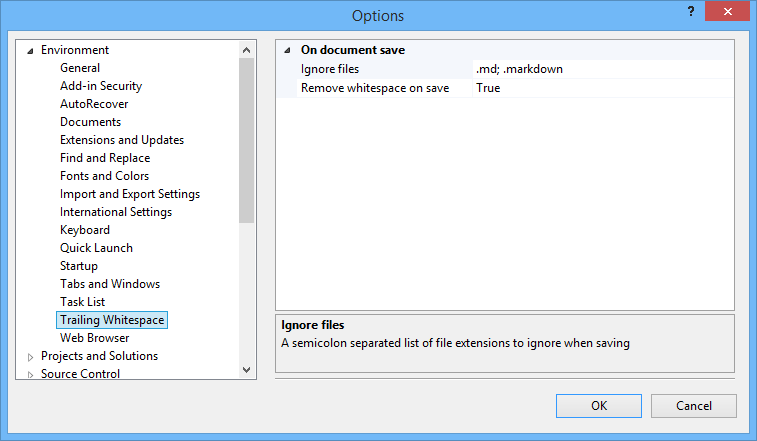
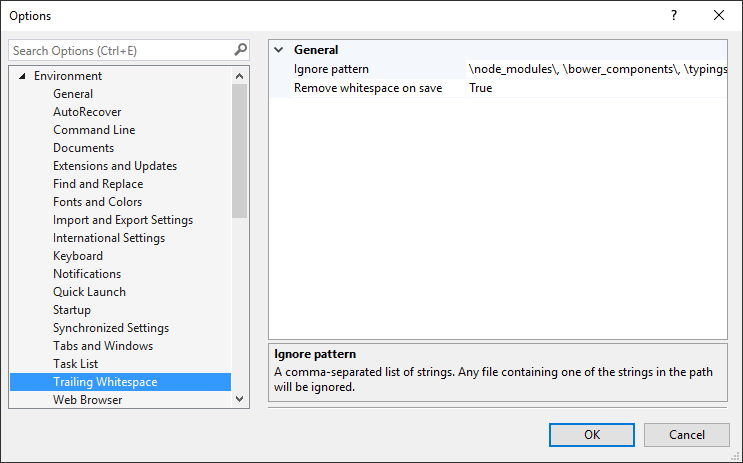
Disable for generated files. Fixed #23

Changed region(s): [[0.0, 0.0, 1.0, 1.0]]

diff --git a/src/Helpers/FileHelpers.cs b/src/Helpers/FileHelpers.cs
@@ -1,0 +1,64 @@
+using System;
+using System.IO;
+using System.Linq;
+using Microsoft.VisualStudio.Shell.Interop;
+using Microsoft.VisualStudio.Text;
+using Microsoft.VisualStudio.TextManager.Interop;
+
+namespace TrailingWhitespace
+{
+    static class FileHelpers
+    {
+        public static bool IsFileSupported(ITextBuffer buffer)
+        {
+            string fileName = buffer.GetFilePath();
+
+            // Check if filename is absolute because when debugging, script files are sometimes dynamically created.
+            if (string.IsNullOrWhiteSpace(fileName) || !Path.IsPathRooted(fileName))
+                return false;
+
+            string extension = Path.GetExtension(fileName);
+
+            var patterns = VSPackage.Options.GetIgnorePatterns();
+
+            if (patterns.Any(p => fileName.IndexOf(p, StringComparison.OrdinalIgnoreCase) > -1))
+                return false;
+
+            // Ignore files containing the string: <auto-generated>
+            string content = buffer.CurrentSnapshot.GetText();
+            if (content.IndexOf("<auto-generated>", StringComparison.OrdinalIgnoreCase) > -1)
+                return false;
+
+            return true;
+        }
+
+        public static string GetFilePath(this ITextBuffer buffer)
+        {
+            IVsTextBuffer bufferAdapter;
+            if (!buffer.Properties.TryGetProperty(typeof(IVsTextBuffer), out bufferAdapter))
+                return null;
+
+            if (bufferAdapter == null)
+                return null;
+
+            var persistFileFormat = bufferAdapter as IPersistFileFormat;
+
+            if (persistFileFormat == null)
+                return null;
+
+            string ppzsFilename = null;
+            uint iii;
+
+            try
+            {
+                persistFileFormat.GetCurFile(out ppzsFilename, out iii);
+                return ppzsFilename;
+            }
+            catch (Exception ex)
+            {
+                Telemetry.TrackException(ex);
+                return null;
+            }
+        }
+    }
+}

diff --git a/src/Classifier/ClassifierProvider.cs b/src/Classifier/ClassifierProvider.cs
@@ -1,10 +1,7 @@
-using System;
-using System.ComponentModel.Composition;
-using Microsoft.VisualStudio.Shell.Interop;
+using System.ComponentModel.Composition;
 using Microsoft.VisualStudio.Text;
 using Microsoft.VisualStudio.Text.Classification;
 using Microsoft.VisualStudio.Text.Editor;
-using Microsoft.VisualStudio.TextManager.Interop;
 using Microsoft.VisualStudio.Utilities;
 
 namespace TrailingWhitespace
@@ -19,44 +16,12 @@ namespace TrailingWhitespace
 
         public IClassifier GetClassifier(ITextBuffer textBuffer)
         {
-            string fileName = GetFileName(textBuffer);
-
-            // Check for file name so the classifier won't show up in tool windows etc.
-            if (!string.IsNullOrWhiteSpace(fileName))
+            if (FileHelpers.IsFileSupported(textBuffer))
             {
                 return textBuffer.Properties.GetOrCreateSingletonProperty(() => new TrailingClassifier(registryService, textBuffer));
             }
 
             return null;
-        }
-
-        public static string GetFileName(ITextBuffer buffer)
-        {
-            IVsTextBuffer bufferAdapter;
-            if (!buffer.Properties.TryGetProperty(typeof(IVsTextBuffer), out bufferAdapter))
-                return null;
-
-            if (bufferAdapter == null)
-                return null;
-
-            var persistFileFormat = bufferAdapter as IPersistFileFormat;
-
-            if (persistFileFormat == null)
-                return null;
-
-            string ppzsFilename = null;
-            uint iii;
-
-            try
-            {
-                persistFileFormat.GetCurFile(out ppzsFilename, out iii);
-                return ppzsFilename;
-            }
-            catch (Exception ex)
-            {
-                Telemetry.TrackException(ex);
-                return null;
-            }
         }
     }
 }

diff --git a/src/Commands/RemoveWhitespaceOnSave.cs b/src/Commands/RemoveWhitespaceOnSave.cs
@@ -1,12 +1,11 @@
-using EnvDTE80;
+using System;
+using System.Linq;
+using EnvDTE80;
 using Microsoft.VisualStudio;
 using Microsoft.VisualStudio.OLE.Interop;
 using Microsoft.VisualStudio.Text;
 using Microsoft.VisualStudio.Text.Editor;
 using Microsoft.VisualStudio.TextManager.Interop;
-using System;
-using System.IO;
-using System.Linq;
 
 namespace TrailingWhitespace
 {
@@ -31,10 +30,10 @@ namespace TrailingWhitespace
         {
             if (pguidCmdGroup == _cmdGgroup && _cmdId.Contains(nCmdID))
             {
-                if (!IsEnabled())
-                    return _nextCommandTarget.Exec(ref pguidCmdGroup, nCmdID, nCmdexecopt, pvaIn, pvaOut);
+                ITextBuffer buffer = _view?.TextBuffer;
 
-                ITextBuffer buffer = _view.TextBuffer;
+                if (buffer == null || !IsEnabled(buffer))
+                    return _nextCommandTarget.Exec(ref pguidCmdGroup, nCmdID, nCmdexecopt, pvaIn, pvaOut);
 
                 if (buffer != null && buffer.CheckEditAccess())
                 {
@@ -45,15 +44,12 @@ namespace TrailingWhitespace
             return _nextCommandTarget.Exec(ref pguidCmdGroup, nCmdID, nCmdexecopt, pvaIn, pvaOut);
         }
 
-        private bool IsEnabled()
+        private bool IsEnabled(ITextBuffer buffer)
         {
             if (!VSPackage.Options.RemoveWhitespaceOnSave)
                 return false;
 
-            string[] extensions = VSPackage.Options.IgnoreFileExtensions.Split(new[] { ';' }, StringSplitOptions.RemoveEmptyEntries);
-            string fileExtension = Path.GetExtension(_document.FilePath);
-
-            return !extensions.Any(ext => ext.Equals(fileExtension, StringComparison.OrdinalIgnoreCase));
+            return FileHelpers.IsFileSupported(buffer);
         }
 
         private void RemoveTrailingWhitespace(ITextBuffer buffer)

diff --git a/src/Options.cs b/src/Options.cs
@@ -1,5 +1,7 @@
 using Microsoft.VisualStudio.Shell;
 using System.ComponentModel;
+using System.Collections.Generic;
+using System;
 
 namespace TrailingWhitespace
 {
@@ -8,19 +10,29 @@ namespace TrailingWhitespace
         public Options()
         {
             RemoveWhitespaceOnSave = true;
-            IgnoreFileExtensions = ".md; .markdown";
+            IgnorePatterns = @"\node_modules\, \bower_components\, \typings\, \lib\, .min., .md, .markdown";
         }
 
-        [Category("On document save")]
+        [Category("General")]
         [DisplayName("Remove whitespace on save")]
         [Description("Every time a code file is saved, any whitespace is removed first")]
         [DefaultValue(true)]
         public bool RemoveWhitespaceOnSave { get; set; }
 
-        [Category("On document save")]
-        [DisplayName("Ignore files")]
-        [Description("A semicolon separated list of file extensions to ignore when saving")]
-        [DefaultValue(".md; .markdown")]
-        public string IgnoreFileExtensions { get; set; }
+        [Category("General")]
+        [DisplayName("Ignore pattern")]
+        [Description("A comma-separated list of strings. Any file containing one of the strings in the path will be ignored.")]
+        [DefaultValue(@"\node_modules\, \bower_components\, \typings\, \lib\, .min., .md, .markdown")]
+        public string IgnorePatterns { get; set; }
+
+        public IEnumerable<string> GetIgnorePatterns()
+        {
+            var raw = IgnorePatterns.Split(new[] { "," }, StringSplitOptions.RemoveEmptyEntries);
+
+            foreach (string pattern in raw)
+            {
+                yield return pattern.Trim();
+            }
+        }
     }
 }

diff --git a/src/VSPackage.cs b/src/VSPackage.cs
@@ -3,6 +3,7 @@ using Microsoft.VisualStudio.Shell.Interop;
 using System;
 using System.Diagnostics.CodeAnalysis;
 using System.Runtime.InteropServices;
+using EnvDTE80;
 
 namespace TrailingWhitespace
 {
@@ -18,12 +19,15 @@ namespace TrailingWhitespace
         public static Options Options { get; private set; }
         public const string Version = "1.0";
         public const string Title = "Trailing Whitespace Visualizer";
+        public static DTE2 Dte;
 
         protected override void Initialize()
         {
             Telemetry.Initialize(this, Version, "16cf8ed8-7f32-43bf-b14d-669b7cc0b348");
 
+            Dte = (DTE2)GetService(typeof(DTE2));
             Options = (Options)GetDialogPage(typeof(Options));
+
             base.Initialize();
         }
     }

diff --git a/README.md b/README.md
@@ -5,25 +5,42 @@
 This extension will highlight any trailing whitespace on any line
 in any editor in Visual Studio.
 
-Download and install the extension from the 
-[Visual Studio Gallery](http://visualstudiogallery.msdn.microsoft.com/a204e29b-1778-4dae-affd-209bea658a59) 
-or get the 
-[nightly build](https://ci.appveyor.com/project/madskristensen/trailingwhitespace/build/artifacts). 
+Download and install the extension from the
+[Visual Studio Gallery](http://visualstudiogallery.msdn.microsoft.com/a204e29b-1778-4dae-affd-209bea658a59)
+or get the
+[nightly build](https://ci.appveyor.com/project/madskristensen/trailingwhitespace/build/artifacts).
 
-![C# whitespace](https://github.com/madskristensen/TrailingWhitespace/blob/master/artifacts/CSharp.png)
+![C# whitespace](artifacts/CSharp.png)
 
-#### Remove trailing whitespace
-
+### Remove trailing whitespace
 You can very easily delete all the trailing whitespace in a file by executing the **Delete Horizontal White Space** command
 found in **Edit** -> **Advanced** or by using the shortcut key combination Ctrl+K, Ctrl+\
 
-#### Changing the background color
+### Changing the background color
 
 You can change the background color from the **Tools -> Options** dialog under the **Environment -> Fonts and Colors** settings. The setting is for the *Text Editor* and the display item is called *Trailing Whitespace*.
 
 ![VisualStudio2013OptionsDialog](artifacts/VisualStudioSettings.png "Visual Studio 2013 Options Dialog")
 
-#### Remove on save
+### Ignore rules
+It's easy to add specify what file patterns to ignore. Any
+ignored file will have whitespace colorized or removed
+on save.
+
+By default, file paths with any of the following strings
+contained in it will be ignored:
+
+- \node_modules\
+- \bower_components\
+- \typings\
+- \lib\
+- .min.
+- .md
+- .markdown
+
+You can modify these rules in the **Tools -> Options** dialog.
+
+### Remove on save
 Every time a file is saved, all trailing whitespace is removed. This can be disabled in the
 **Tools -> Options** dialog.
 
